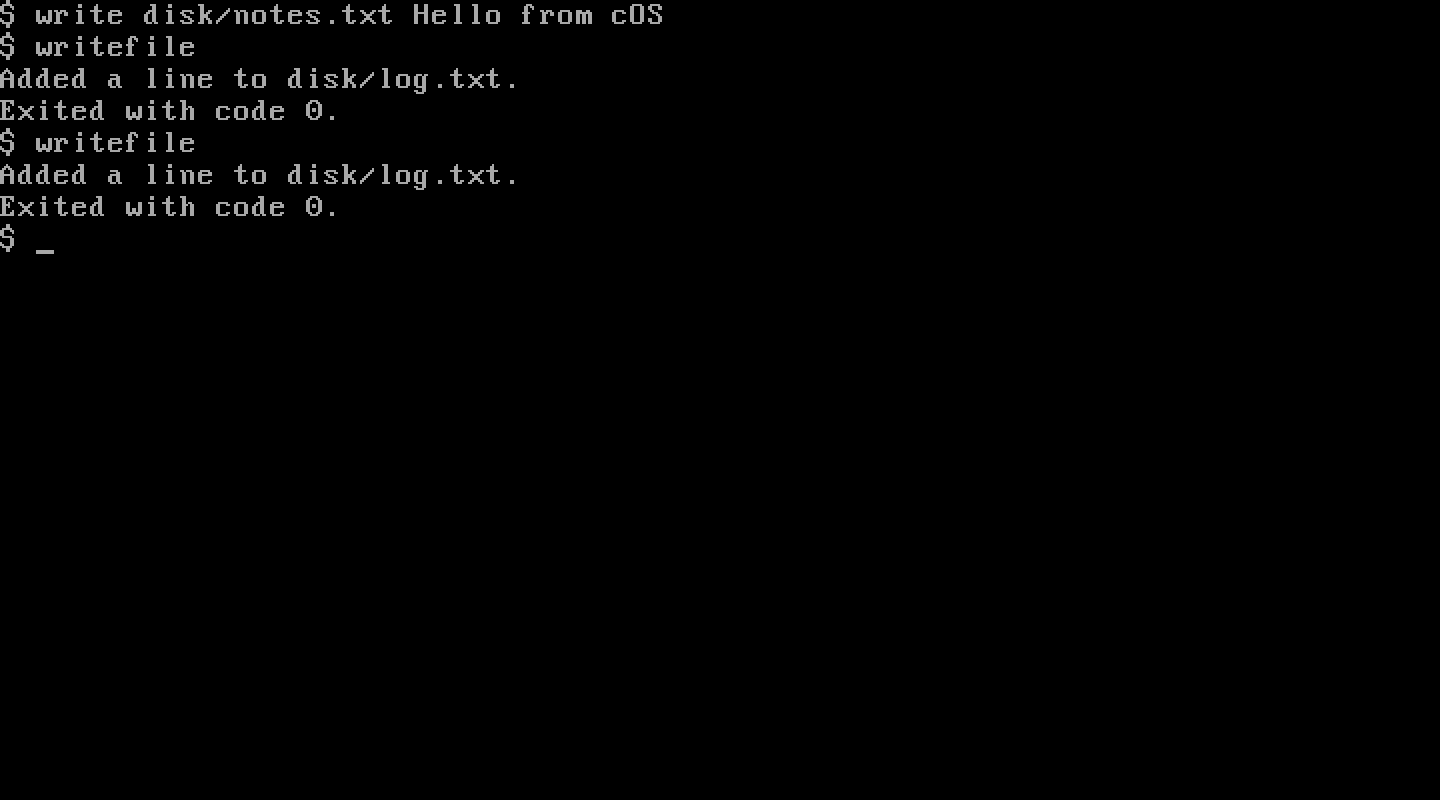
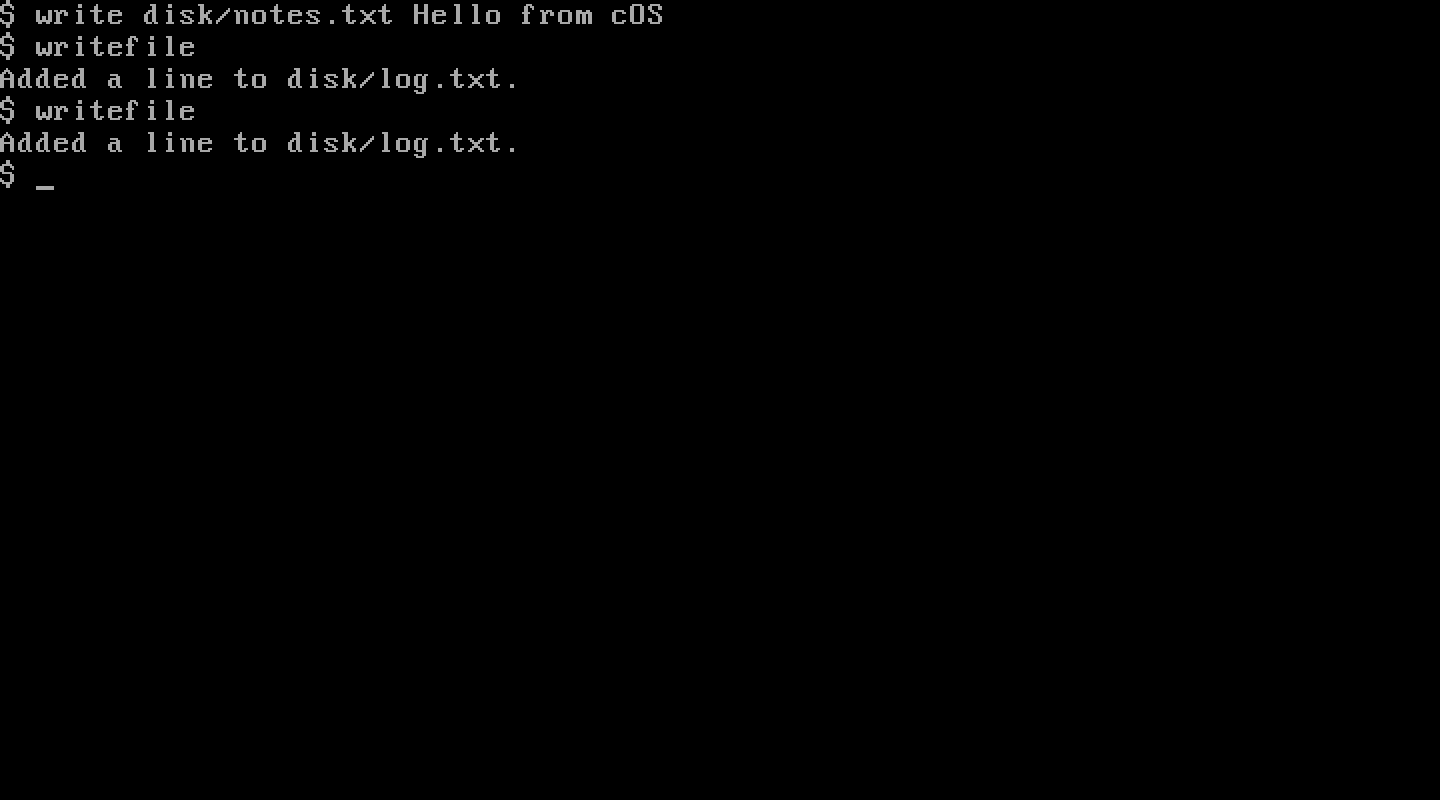
Update wc.cpp

Changed region(s): [[0.0, 0.125, 0.3438, 0.3125]]

diff --git a/userspace/wc.cpp b/userspace/wc.cpp
@@ -1,0 +1,51 @@
+#include "start.h"
+#include "stdio.h"
+#include "unistd.h"
+
+// Counts the lines, words and bytes in each file named in the arguments, as the Unix wc program does.
+int main(int argc, char** argv)
+{
+    if (argc < 2)
+    {
+        puts("Usage: wc <file>...");
+        return 1;
+    }
+    uint64_t totalLines = 0;
+    uint64_t totalWords = 0;
+    uint64_t totalBytes = 0;
+    for (int i = 1; i < argc; i++)
+    {
+        int64_t fd = open(argv[i]);
+        if (fd < 0)
+        {
+            printf("wc: no such file: %s\n", argv[i]);
+            return 1;
+        }
+        uint64_t lines = 0;
+        uint64_t words = 0;
+        uint64_t bytes = 0;
+        bool isInWord = false;
+        char buffer[256];
+        int64_t length;
+        while ((length = read(fd, buffer, sizeof(buffer))) > 0)
+        {
+            bytes += length;
+            for (int64_t j = 0; j < length; j++)
+            {
+                char c = buffer[j];
+                if (c == '\n') { lines++; }
+                // A word starts at the first character that is not a space after a space.
+                bool isSpace = c == ' ' || c == '\n' || c == '\t';
+                if (!isSpace && !isInWord) { words++; }
+                isInWord = !isSpace;
+            }
+        }
+        close(fd);
+        printf("%6lu %6lu %6lu %s\n", lines, words, bytes, argv[i]);
+        totalLines += lines;
+        totalWords += words;
+        totalBytes += bytes;
+    }
+    if (argc > 2) { printf("%6lu %6lu %6lu total\n", totalLines, totalWords, totalBytes); }
+    return 0;
+}
